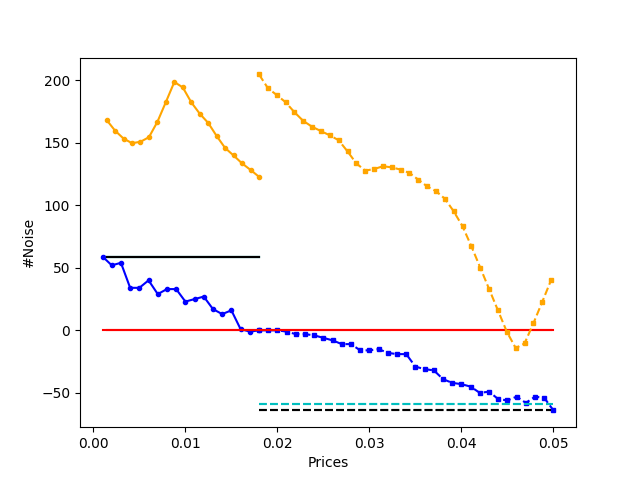
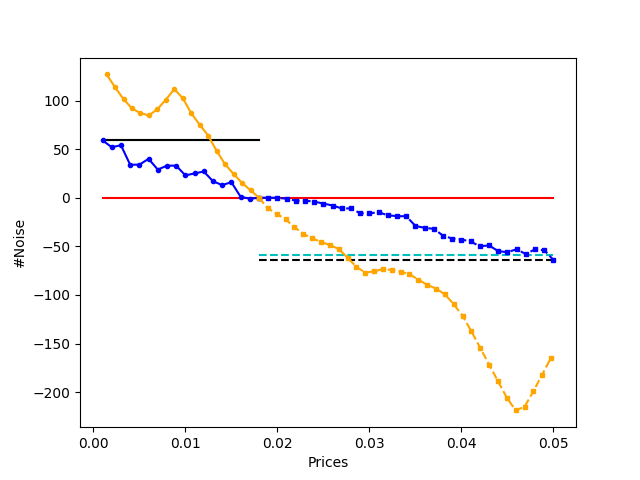
plot

diff --git a/core.py b/core.py
@@ -953,7 +953,7 @@ class Play(object):
         samples = inputs.shape[-1] // input_dim
 
         for j in range(samples):
-            # self.reset_states(states)
+            self.reset_states(states)
             x = inputs[j*input_dim:(j+1)*input_dim].reshape(1, 1, -1)
             output = self.model.predict(x, steps=steps_per_epoch, verbose=verbose).reshape(-1)
             outputs.append(output)
@@ -1394,8 +1394,15 @@ class MyModel(object):
         cost_history = np.array(self.cost_history)
         tdata.DatasetSaver.save_data(cost_history[:, 0], cost_history[:, 1], loss_file_name)
 
-    def predict_parallel(self, inputs, individual=False):
+    def predict_parallel(self, inputs, individual=False, states_list=None):
         _inputs = inputs
+        if states_list is None:
+            states_list = [np.array([0]).reshape(1, 1) for _ in range(self._nb_plays)]
+        elif not isinstance(states_list[0], np.ndarray):
+            states_list = [np.array([s]).reshape(1, 1) for s in states_list]
+        else:
+            states_list = [s.reshape(1, 1) for s in states_list]
+
 
         ##########################################################################
         #     multiprocessing.Pool
@@ -1410,9 +1417,9 @@ class MyModel(object):
         #     myImplementation.Pool
         ##########################################################################
         start = time.time()
-        for play in self.plays:
+        for i, play in enumerate(self.plays):
             LOG.debug("{}".format(play._name))
-            task = Task(play, 'predict', (_inputs, ))
+            task = Task(play, 'predict', (_inputs, 1, 0, states_list[i]))
             self.pool.put(task)
 
         self.pool.join()
@@ -2072,7 +2079,7 @@ class MyModel(object):
         self._fmt_brief = '../simulation/training-dataset/mu-0-sigma-110.0-points-2000/{}-brief.csv'
         self._fmt_truth = '../simulation/training-dataset/mu-0-sigma-110.0-points-2000/{}-true-detail.csv'
         self._fmt_fake = '../simulation/training-dataset/mu-0-sigma-110.0-points-2000/{}-fake-detail.csv'
-        length = 10
+        length = 2
         assert length < prices.shape[-1] - 1, "Length must be less than prices.shape-1"
         batch_size = self.batch_input_shape[-1]
         states_list = None
@@ -2090,13 +2097,16 @@ class MyModel(object):
               abs(prices[i+1] - end_price) > 1e-7:
                 LOG.error("Bugs: prices is out of expectation")
 
-            self.reset_states_parallel(states_list=states_list)
-
-            interpolated_prices = np.linspace(start_price, end_price, batch_size)
-            interpolated_noises = self.predict_parallel(interpolated_prices)
             fake_start_price, fake_end_price = fake_price_list[0], fake_price_list[-1]
             fake_interpolated_prices = np.linspace(fake_start_price, fake_end_price, batch_size)
-            fake_interpolated_noises = self.predict_parallel(fake_interpolated_prices)
+            # self.reset_states_parallel(states_list=states_list)
+            fake_interpolated_noises = self.predict_parallel(fake_interpolated_prices, states_list=states_list)
+
+            interpolated_prices = np.linspace(start_price, end_price, batch_size)
+            # self.reset_states_parallel(states_list=states_list)
+            interpolated_noises = self.predict_parallel(interpolated_prices, states_list=states_list)
+
+
             states_list = [o[i-1] for o in operator_outputs]
 
             self._plot_sim(ax1, fake_price_list, fake_noise_list,
@@ -2129,24 +2139,31 @@ class MyModel(object):
                   fake_price_list, fake_noise_list,
                   price_list, noise_list,
                   fake_B1, fake_B2, fake_B3,
-                  _B1, _B2, _B3, color='blue'):
+                  _B1, _B2, _B3, color='blue', plot_target_line=True):
         fake_l = 10 if len(fake_price_list) == 1 else len(fake_price_list)
         l = 10 if len(price_list) == 1 else len(price_list)
         fake_B1, fake_B2, fake_B3 = np.array([fake_B1]*fake_l), np.array([fake_B2]*fake_l), np.array([fake_B3]*fake_l)
         _B1, _B2, _B3 = np.array([_B1]*l), np.array([_B2]*l), np.array([_B3]*l)
 
-        fake_B2 = fake_B2 - fake_B1
-        fake_B3 = fake_B3 - fake_B1
-        fake_noise_list = fake_noise_list - fake_B1
-        fake_B1 = fake_B1 - fake_B1
+        if plot_target_line is True:
+            fake_B2 = fake_B2 - fake_B1
+            fake_B3 = fake_B3 - fake_B1
+            fake_noise_list = fake_noise_list - fake_B1
+            fake_B1 = fake_B1 - fake_B1
 
-        _B2 = _B2 - _B1
-        _B3 = _B3 - _B1
-        noise_list = noise_list - _B1
-        _B1 = _B1 - _B1
+            _B2 = _B2 - _B1
+            _B3 = _B3 - _B1
+            noise_list = noise_list - _B1
+            _B1 = _B1 - _B1
+            ax.plot(fake_price_list, fake_B1, 'r', fake_price_list, fake_B2, 'c--', fake_price_list, fake_B3, 'k--')
+            ax.plot(price_list, _B1, 'r', price_list, _B2, 'c', price_list, _B3, 'k-')
 
-        ax.plot(fake_price_list, fake_B1, 'r', fake_price_list, fake_B2, 'c--', fake_price_list, fake_B3, 'k--')
-        ax.plot(price_list, _B1, 'r', price_list, _B2, 'c', price_list, _B3, 'k-')
+        else:
+            fake_noise_list = fake_noise_list - fake_B1
+            fake_B1 = fake_B1 - fake_B1
+            noise_list = noise_list - _B1
+            _B1 = _B1 - _B1
+
         ax.plot(fake_price_list, fake_noise_list, color=color, marker='s', markersize=3, linestyle='--')
         ax.plot(price_list, noise_list, color=color, marker='.', markersize=6, linestyle='-')
         ax.set_xlabel("Prices")
@@ -2159,10 +2176,12 @@ class MyModel(object):
                            interpolated_noises,
                            fake_B1, fake_B2, fake_B3,
                            _B1, _B2, _B3):
+
         from matplotlib import colors as mcolors
+        # import ipdb; ipdb.set_trace()
 
         self._plot_sim(ax,
                        fake_interpolated_prices, fake_interpolated_noises,
                        interpolated_prices, interpolated_noises,
-                       fake_B1, fake_B2, fake_B3,
-                       _B1, _B2, _B3, mcolors.CSS4_COLORS['orange'])
+                       fake_interpolated_noises[0], fake_B2, fake_B3,
+                       interpolated_noises[0], _B2, _B3, mcolors.CSS4_COLORS['orange'], plot_target_line=False)
